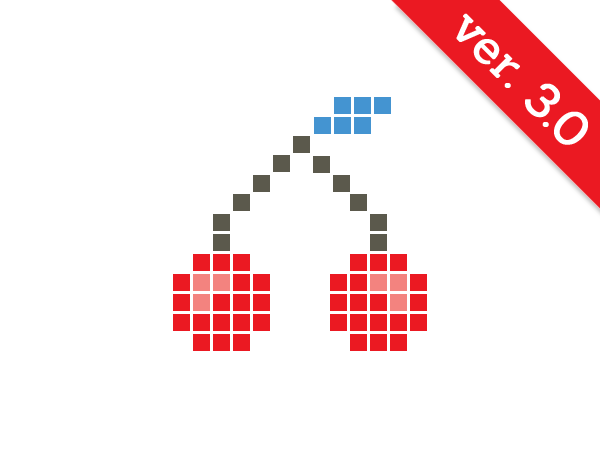
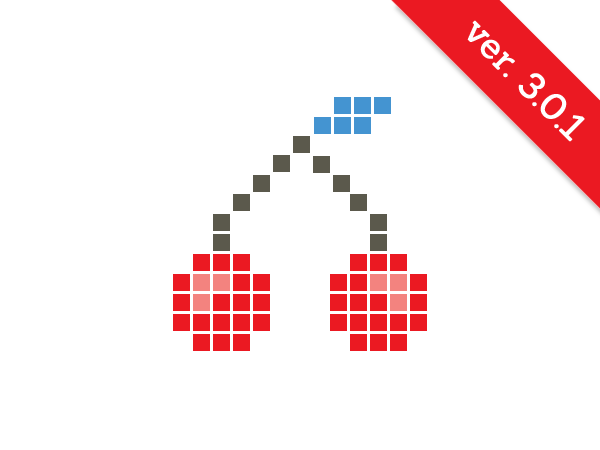
change stylesheet and screenshot

Changed region(s): [[0.84, 0.1556, 0.99, 0.3422], [0.75, 0.0311, 0.87, 0.1867]]

diff --git a/style.css b/style.css
@@ -1,10 +1,10 @@
 /*
 	Theme Name: cherry
 	Theme URI: http://info.template-help.com/help/
-	Description: A theme for Wordpress 3.7.x
+	Description: A theme for Wordpress 3.8.x
 	Author: Template_Help.com
 	Author URI: http://info.template-help.com/help/
-	Version: 3.0
+	Version: 3.0.1
 	Tags: dark, light, white, black, gray, left-sidebar, right-sidebar, fixed-width, flexible-width, custom-menu, editor-style, featured-images, full-width-template, post-formats, rtl-language-support, sticky-post, theme-options, translation-ready
 	License:
 	License URI: http://
